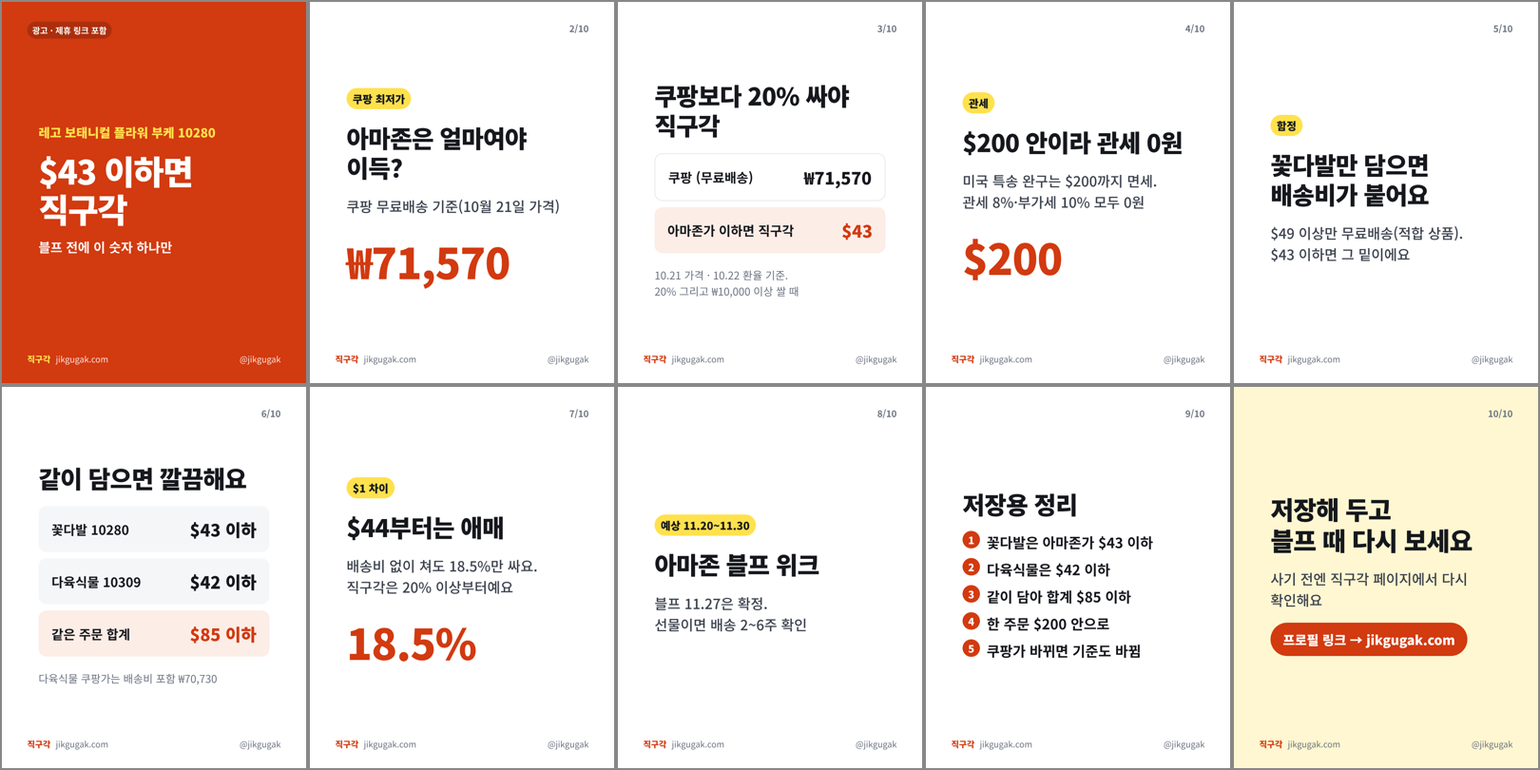
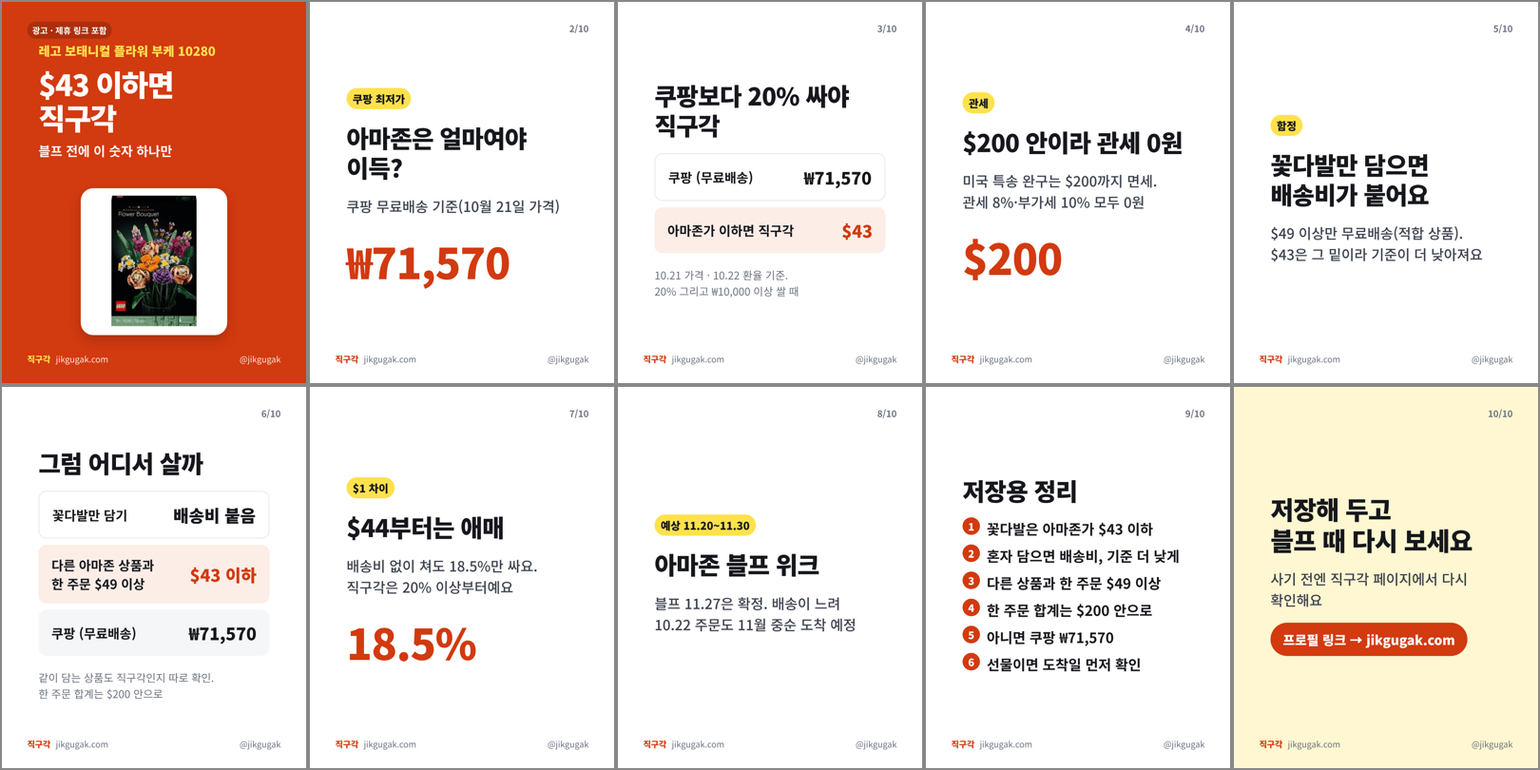
레고 꽃다발 홍보 세트 수정 완료(10309 해법 제거·도착일 안내), 매니저 실물 확인 통과, 10280 도착 예정 주의점 추가
Claude-Session: https://claude.ai/code/session_019Cv1aFf1DMQ9eAvVdGwkdU

diff --git a/content/2026-10-22-lego-bouquet/brief.md b/content/2026-10-22-lego-bouquet/brief.md
@@ -1,13 +1,14 @@
 # 기획안: 레고 꽃다발 직구 vs 쿠팡 (블프 전 "얼마 이하면 사도 되나")
 
 - 작성: marketing-lead · 2026-10-22
-- 대상 상품: 레고 보태니컬 플라워 부케 10280(주인공) · 레고 보태니컬 다육식물 10309(같이 담기)
+- 대상 상품: 레고 보태니컬 플라워 부케 10280 하나. (다육식물 10309는 10.22 오후 매니저 확인 결과 아마존 한국 배송 불가라 "같이 담기" 해법에서 뺐어요.)
+- 수정 이력: 2026-10-22 오후, 10309 한국 배송 불가·10280 도착 예정 11월 중순 반영(아래 4-3, 5, 7 갱신)
 - 채널: 네이버 블로그 1편, 인스타 카드뉴스 1세트(10장) + 캡션, 스레드 2개. 릴스는 이번에 만들지 않아요.
 - trend-scout 조사(research.md)는 이번엔 없어요. 훅·구조는 playbook.md 공식으로 갑니다.
 
 ## 1. 핵심 메시지 (결론 = 판정)
 
-> **레고 꽃다발 10280은 아마존가 $43 이하면 직구각이에요. 그런데 $49 무료배송 조건 때문에 혼자 담으면 이 기준이 안 맞고, 다육식물 10309($42 이하)와 같이 담아 합계 $85 이하일 때 깔끔하게 직구각이에요.**
+> **레고 꽃다발 10280은 아마존가 $43 이하면 직구각이에요(배송비 0원일 때). 꽃다발만 담으면 $49 무료배송에 못 미쳐 배송비가 붙고 실제 기준은 $43보다 낮아져요. 블프에 어차피 살 다른 아마존 상품과 한 주문으로 $49를 넘기는 게 아니면 쿠팡 ₩71,570(무료배송)이 현실적이에요.**
 
 - 현재 판정은 "현재가 확인"(아마존 가격을 표시하지 않음)이에요. **"지금 직구각"이라고 쓰면 안 돼요.** 글의 결론은 "세일 때 이 숫자 이하면 사세요"예요.
 - 글의 반전 포인트: 손익분기 $43이 무료배송 기준 $49보다 낮아요. 꽃다발만 담으면 배송비가 붙어서 실제 기준은 $43보다 더 내려가요.
@@ -21,7 +22,7 @@
 
 - 오늘(10/22) 기준 아마존 블프 위크까지 D-29(11.20~11.30, **예상**), 블랙프라이데이까지 D-36(11.27, **확정**). 세일 전에 기준 가격을 알아 두라는 "미리 저장" 콘텐츠예요.
 - 그 사이 국내 세일도 있어요(모두 **예상**): 네이버 넾다세일 10.29~11.11, 11번가 그랜드 십일절·빅스마일데이 11.1~11.11, 코리아세일페스타 11.9~11.30. 쿠팡가가 내려가면 직구 기준도 같이 내려가요. 이걸 "국내도 다시 보세요"로 정직하게 써요.
-- 선물이라면 배송 기간이 변수예요. 꽃다발 10280은 배송 2~6주라, 블프에 주문하면 크리스마스 전 도착을 장담 못 해요.
+- 선물이라면 배송 기간이 변수예요. 꽃다발 10280은 배송 2~6주이고, 10.22 오후 확인 때 아마존 도착 예정이 이미 11월 중순이었어요. 블프에 주문하면 크리스마스 전 도착을 장담 못 해요.
 
 ## 4. 팩트 시트 (이 표 밖의 숫자는 쓰지 않아요)
 
@@ -34,11 +35,13 @@
 | 국내 최저가 | ₩71,570 (쿠팡, 무료배송) | ₩70,730 (쿠팡 ₩60,730 + 배송비 ₩10,000) |
 | 손익분기(직구각 기준) | 아마존가 **$43 이하** | 아마존가 **$42 이하** |
 | 아마존 배송비 조건 | US$49 이상 무료 배송(적합 상품) | US$49 이상 무료 배송(적합 상품), US$49 미만이면 배송비 별도 |
-| 배송 기간 | 2~6주 | 1~4주 |
+| 배송 기간 | 2~6주 (10.22 오후 확인: 한국 배송 가능, 도착 예정 11월 중순) | 1~4주 |
+| 한국 배송 | 가능 (10.22 오후 매니저 확인) | **불가 (10.22 오후 매니저 확인, 구매 버튼 없음)** |
 | 면세 한도 | $200 (미국 특송, 완구) | $200 |
 | 현재 사이트 판정 | 현재가 확인 | 현재가 확인 |
 
-- 다육식물 국내가는 **반드시 "배송비 포함 ₩70,730"** 으로. ₩60,730만 단독으로 쓰면 안 돼요.
+- 다육식물 10309는 **이번 세트에서 숫자로 쓰지 않아요**(한국 배송 불가). 블로그에 "10.22 확인 때 한국 배송이 안 됐어요" 한 줄만 허용.
+- 배송 관련 출처: 한국 배송 가능 여부·도착 예정은 매니저가 2026-10-22 오후 아마존 상품 페이지(일반 주소)에서 확인한 값이에요. products.json의 10309 risks·summary에도 반영됨. 10280 도착 예정(11월 중순)은 products.json에 없고 매니저 확인값이라, 글에선 꼭 "10월 22일 확인 때"를 붙여요.
 
 ### 4-2. 계산 근거 (출처: `src/calc.js`, CLAUDE.md 판정 규칙)
 
@@ -60,12 +63,11 @@
 | 꽃다발 $43일 때 해외 체감가 | ₩56,996 (쿠팡보다 ₩14,574, 20.4% 쌈 → 직구각) | landedCost 43 |
 | 꽃다발 $44일 때 | ₩58,322 (18.5% 쌈 → 애매). **$1 차이로 판정이 바뀌어요** | landedCost 44 |
 | 꽃다발 가격대별 판정(무료배송 가정) | $43 이하 직구각 · $44~$53 애매 · $54 이상 국내가 나음 | judge 반복 |
-| 다육식물 가격대별 판정(무료배송 가정) | $42 이하 직구각 · $43~$53 애매 · $54 이상 국내가 나음 | judge 반복 |
-| 둘 같이 담을 때 국내 합계 | ₩142,300 (₩71,570 + ₩70,730) | 합 |
-| 둘 같이 담을 때 손익분기 | 아마존 **합계 $85 이하**면 직구각 (체감가 ₩112,667, ₩29,633·20.8% 쌈) | breakevenUsd 142,300 |
-| 둘 합계 $85 | $49 무료배송 넘음, $200 면세 한도 안 | |
+| ~~다육식물 가격대별·둘 같이 담기 합계 $85·₩142,300·₩112,667~~ | **사용 금지(10309 한국 배송 불가)** | |
+| 다른 아마존 상품과 한 주문 | 무료배송($49 이상)이면 꽃다발 기준은 그대로 $43 이하. 한 주문 합계 $200 이하면 관세·부가세 0원 | calc.js: 꽃다발 배송비 $0 가정 그대로, 면세 한도 $200 |
 
 - **"꽃다발 하나만" 시나리오(가장 중요한 함정):** $43 이하는 $49 미만이라 배송비가 따로 붙어요. 배송비 금액은 우리 데이터에 없어서 **숫자로 쓰지 않아요.** "배송비만큼 기준이 $43보다 더 내려가요"까지만. 반대로 $49 이상이면 무료배송이지만 그 가격대는 애매($49~$53)나 국내가 나음($54 이상)이에요.
+- **해법은 두 가지만:** ① 블프에 어차피 살 다른 아마존 상품과 한 주문으로 $49 넘기기(같이 담는 상품도 따로 국내보다 싼지 확인, 합계 $200 이하) ② 쿠팡 ₩71,570 무료배송. 특정 상품을 "같이 담을 짝"으로 추천하지 않아요(한국 배송 가능 여부를 우리가 확인하지 않은 상품이라).
 - 가격대별 표의 달러 숫자($44, $53, $54 등)는 "이 가격이면 이런 판정"이라는 기준선이지 아마존 가격이 아니에요. 그래도 "아마존이 $○○이에요/였어요"처럼 읽히는 문장은 금지예요.
 
 ### 4-4. 세일 일정 (출처: `data/events.json`)
@@ -88,19 +90,19 @@
 - **제목 후보 (검색어 앞으로, 25~35자):**
   1. 레고 꽃다발 직구 vs 쿠팡, 블프에 아마존 $43 이하면 사세요
   2. 레고 플라워 부케 10280 직구, 관세까지 계산한 기준 가격은 $43
-  3. 레고 꽃다발 블랙프라이데이 직구, 다육식물이랑 같이 담아야 하는 이유
+  3. 레고 꽃다발 블랙프라이데이 직구, 하나만 담으면 생기는 함정
 - **검색어:** "레고 꽃다발 직구"(주), "레고 10280", "레고 블랙프라이데이". 제목·첫 문단·소제목 1곳에만 자연스럽게.
 - **맨 위 광고 문구 2개 다:** 제휴 문구 + 쿠팡 파트너스 문구(쿠팡 가격을 언급하고, 링크한 직구각 페이지에 쿠팡 링크가 있어서 보수적으로 둘 다 넣어요).
-- **첫 문단 3줄:** 결론부터. "아마존가 $43 이하면 직구각(10월 21일 가격·10월 22일 환율 기준), 단 다육식물 10309와 같이 담아야 이 기준이 맞아요."
+- **첫 문단 3줄:** 결론부터. "아마존가 $43 이하면 직구각(10월 21일 가격·10월 22일 환율 기준). 배송비 0원일 때 얘기라 꽃다발만 담으면 기준이 더 낮아져요. 같이 살 아마존 상품이 없으면 쿠팡이 현실적."
 - **구성(소제목 5개 안팎):**
   1. 결론 요약 표: 상품 · 쿠팡가(배송비 포함 표기) · 직구각 기준 가격 · 배송 기간
   2. 왜 $43인가: 20% 그리고 ₩10,000 규칙, $200 면세 한도 안이라 관세·부가세 0원, 두 가지 환율
-  3. 함정: $49 무료배송. 꽃다발만 담으면 배송비가 붙어 기준이 더 내려가요. 같이 담으면 합계 $85 이하가 기준(표 1개: 혼자 vs 같이)
+  3. 함정: $49 무료배송. 꽃다발만 담으면 배송비가 붙어 기준이 더 내려가요. 표 1개: 꽃다발만 / 다른 아마존 상품과 한 주문 / 쿠팡. 10309 한국 배송 불가 한 줄
   4. 언제 보나: 아마존 블프 위크(예상)·블프(확정). 국내 세일(예상) 때 쿠팡가가 내려가면 기준도 바뀌니 사기 전 직구각 페이지에서 다시 확인
-  5. 주의할 점 3개: 결제는 달러로(환전 수수료) / 배송 2~6주라 크리스마스 선물이면 여유 없음 / 다른 레고를 더 담아 $200을 넘기면 배송비 포함 전체에 관세 8%·부가세 10%
+  5. 주의할 점 3개: 결제는 달러로(환전 수수료) / 배송 2~6주, 10.22 확인 때 도착 예정 11월 중순이라 선물이면 도착일 먼저 확인 / 배송비 피하려고 더 담다 $200을 넘기면 배송비 포함 전체에 관세 8%·부가세 10%
   6. 링크 하나: 꽃다발 10280 페이지
 - 이미지 자리: `[이미지: 직구각 카드 03(쿠팡가 vs 기준 가격)]` 같은 우리 카드만. 상품 사진이 필요하면 `[이미지: 쿠팡 파트너스 제공 상품 이미지, 운영자가 첨부]`로 표시만.
-- 1,500~2,500자. 네이버 태그 10개 이내(예: 레고꽃다발, 레고10280, 레고플라워부케, 레고직구, 해외직구, 블랙프라이데이, 아마존직구, 관부가세, 직구각, 레고다육식물).
+- 1,500~2,500자. 네이버 태그 10개 이내(예: 레고꽃다발, 레고10280, 레고플라워부케, 레고직구, 해외직구, 블랙프라이데이, 아마존직구, 관부가세, 직구각, 레고선물).
 - CTA: 꽃다발 페이지 링크 하나.
 
 ### 5-2. 인스타 카드뉴스 10장 (social-writer 문구 → card-designer 렌더)
@@ -111,11 +113,11 @@
 | 2 | point | 문제 제기(두 번째 표지) | "쿠팡 ₩71,570, 아마존은 얼마여야 이득일까요?" 쿠팡 무료배송 기준 + 10월 21일 기준 |
 | 3 | compare | 핵심 비교 | rows: 쿠팡 ₩71,570(dim) / 아마존가 이하면 직구각 $43(hi). note: 10.21 가격·10.22 환율, 20% 그리고 ₩10,000 이상 쌀 때 |
 | 4 | point | 왜 $43 | "$200 안이라 관세 0원" + "20% 싸야 직구각". big "$200" 또는 "20%" 중 하나 |
-| 5 | point | 함정 | label "함정" / title "꽃다발만 담으면\n배송비가 붙어요" / body "$49 이상만 무료배송. $43 이하면 그 밑이에요" |
-| 6 | compare | 해결: 같이 담기 | rows: 꽃다발 $43 이하 / 다육식물 $42 이하 / 둘 합계 $85 이하(hi). note: 다육식물 쿠팡 ₩70,730(배송비 포함) |
+| 5 | point | 함정 | label "함정" / title "꽃다발만 담으면\n배송비가 붙어요" / body "$49 이상만 무료배송(적합 상품). $43은 그 밑이라 기준이 더 낮아져요" |
+| 6 | compare | 사는 방법 | title "그럼 어디서 살까" / rows: 꽃다발만 담기 → 배송비 붙음(dim) / 다른 아마존 상품과 한 주문 $49 이상 → $43 이하(hi) / 쿠팡(무료배송) ₩71,570. note: 같이 담는 상품도 직구각인지 따로 확인, 한 주문 합계 $200 안으로 |
 | 7 | point | $1 차이 | big "$44" / title "1달러 넘으면 애매" / body "$44면 18.5%만 싸서 기준에 못 미쳐요" (가격대 기준선이지 아마존가 아님을 문맥으로 분명히) |
-| 8 | point | 언제·주의 | "아마존 블프 위크 11.20~11.30(예상)" + "블프 11.27" + "선물이면 배송 2~6주 확인" (넘치면 국내 세일 문구는 캡션으로) |
-| 9 | recap | 정리(캡처용) | ① 꽃다발 $43 이하 ② 다육식물 $42 이하 ③ 같이 담아 합계 $85 이하 ④ $200 넘기지 않기 ⑤ 쿠팡가 바뀌면 기준도 바뀜 |
+| 8 | point | 언제·주의 | "아마존 블프 위크 11.20~11.30(예상)" + "블프 11.27 확정" + "배송이 느려 10.22 주문도 11월 중순 도착 예정" |
+| 9 | recap | 정리(캡처용) | ① 꽃다발 $43 이하 ② 혼자 담으면 배송비, 기준 더 낮게 ③ 다른 상품과 한 주문 $49 이상 ④ 한 주문 $200 안으로 ⑤ 아니면 쿠팡 ₩71,570 ⑥ 선물이면 도착일 먼저 확인 |
 | 10 | cta | 저장 | "저장해 두고 블프 때 다시 보세요" / button "프로필 링크 → jikgugak.com" |
 
 - 카드 문구가 글자 수 규격(제목 7~15자, 설명 40자)을 넘으면 장을 쪼개지 말고 8장을 줄여요(10장이 상한).
@@ -133,8 +135,8 @@
 
 ### 5-4. 스레드 2개 (social-writer, 각 300~500자, 끝에 링크 하나 + #광고)
 
-1. **숫자 정보글(훅 B):** "$49." 로 시작. 아마존 무료배송 기준 $49가 직구각 기준 $43보다 높아서, 꽃다발만 사면 배송비가 붙는다 → 다육식물이랑 같이 담아 합계 $85 이하. 기준 날짜 한 줄. 끝: "직접 계산은 jikgugak.com" + 꽃다발 페이지 주소.
-2. **질문형:** "레고 꽃다발 선물, 블프까지 기다려요? 지금 쿠팡에서 사요?" 쿠팡 ₩71,570(무료배송) vs 블프에 $43 이하를 기다리기 + 배송 2~6주라 크리스마스 선물이면 국내가 마음 편할 수 있다는 정직한 포인트. 질문 하나로 끝(이 글은 CTA를 질문으로), 링크는 끝에 하나.
+1. **숫자 정보글(훅 B):** "$49." 로 시작. 아마존 무료배송 기준 $49가 직구각 기준 $43보다 높아서, 꽃다발만 사면 배송비가 붙는다 → 어차피 살 다른 아마존 상품과 한 주문으로 $49를 넘기거나, 아니면 쿠팡. 기준 날짜 한 줄. 끝: "직접 계산은 jikgugak.com" + 꽃다발 페이지 주소.
+2. **질문형:** "레고 꽃다발 선물, 블프까지 기다려요? 지금 쿠팡에서 사요?" 쿠팡 ₩71,570(무료배송) vs 블프에 $43 이하를 기다리기 + 배송이 느려(10.22 확인 때 도착 예정 11월 중순) 크리스마스 선물이면 국내가 마음 편할 수 있다는 정직한 포인트. 질문 하나로 끝(이 글은 CTA를 질문으로), 링크는 끝에 하나.
 
 ### 5-5. CTA (한 글에 하나)
 
@@ -145,7 +147,7 @@
 ## 6. 링크 (jikgugak.com 주소만, 제휴 링크 직접 노출 금지)
 
 - 메인: https://www.jikgugak.com/p/amazon-lego-10280-flower-bouquet
-- 보조(블로그 본문 언급용, 링크는 메인 하나만 권장): https://www.jikgugak.com/p/amazon-lego-10309-succulents
+- (10309 페이지는 한국 배송 불가라 이번 세트에서 링크하지 않아요)
 - 세일 일정: https://www.jikgugak.com/calendar
 - 관세 계산기: https://www.jikgugak.com/calculator
 - 합산과세·면세 한도 설명: https://www.jikgugak.com/guide
@@ -156,9 +158,9 @@
 2. **사이트 요약 문장을 그대로 옮기지 않기.** 10309 페이지의 "평소 할인가가 이 근처라"는 아마존 가격을 아는 것처럼 읽혀요. 10280 페이지의 "블프 할인 대상에 자주 올라요", "가장 많이 팔리는 세트"는 근거 자료가 없어요. 셋 다 쓰지 않아요.
 3. **"지금 직구각"이라고 쓰지 않기.** 현재 판정은 "현재가 확인"이에요. "블프에 레고가 할인해요"도 단정 금지("할인하면 이 숫자부터 보세요").
 4. **배송비 금액을 지어내지 않기.** $49 미만 배송비는 데이터에 없어요. "무료배송"은 항상 "US$49 이상, 적합 상품" 조건과 같이.
-5. **다육식물 국내가는 배송비 포함 ₩70,730.** ₩60,730만 쓰면 비교가 틀려요.
+5. **다육식물 10309를 해법으로 쓰지 않기.** 10.22 오후 기준 아마존 한국 배송 불가. "같이 담기", "합계 $85", "₩142,300" 모두 금지. 다른 특정 상품을 짝으로 추천하지도 않아요.
 6. **$43은 "이하".** "$43 정도", "$45쯤"처럼 반올림 금지. $44면 애매로 바뀌어요.
-7. **같이 담기 = 같은 주문.** 합계 $85 이하, $200 이하. 다른 레고를 더 담아 $200을 넘기면 배송비 포함 전체에 관세 8%·부가세 10%. 구체적 세금 예시 금액은 쓰지 않아요(헷갈림 방지).
+7. **같이 담기 = 같은 주문, $49 이상 $200 이하.** 배송비 피하려고 더 담다 $200을 넘기면 배송비 포함 전체에 관세 8%·부가세 10%. 구체적 세금 예시 금액은 쓰지 않아요(헷갈림 방지). 쿠팡 배송 속도는 데이터에 없으니 "쿠팡은 빨라요"라고 쓰지 않고 "마음 편해요" 정도로.
 8. **국내가 나은 경우도 쓰기:** 가격이 $54 이상이면 국내가 나음, 급한 선물이면 쿠팡. "직구가 무조건 싸다"로 읽히면 안 돼요.
 9. **세일 날짜:** 아마존 블프 위크·국내 세일은 "예상". 블프 11.27·사이버먼데이 11.30은 확정.
 10. **상표:** "레고 보태니컬 플라워 부케 10280"처럼 상품명으로만. 레고 로고·박스 사진·공식 이미지 금지, "레고 공식" 같은 관계 암시 금지. 체험담("만들어 보니")·후기·별점 금지.

diff --git a/content/2026-10-22-lego-bouquet/review.md b/content/2026-10-22-lego-bouquet/review.md
@@ -1,6 +1,8 @@
 # 검수: 레고 꽃다발 직구 vs 쿠팡 (marketing-lead · 2026-10-22)
 
-## 최종 판정: 게시 가능 (아래 "게시할 때 할 일"을 운영자가 지키는 조건)
+## 최종 판정 (2026-10-22 오후 재검수): 게시 가능
+
+조건: 아래 "10309 배송 불가 반영 수정"의 게시 전 확인 3가지를 매니저·운영자가 지킬 것. 오전 판정(게시 가능)은 10309 "같이 담기" 해법이 틀린 정보가 되어 무효, 수정 후 다시 판정했어요.
 
 검수 대상: blog.md(blog-writer) · cards.json·instagram.md·threads.md(social-writer) · cards/01~10.png(card-designer)
 숫자 대조 원본: `npm run build` 출력(2026-10-22, 환율 settings 값 사용), `dist/p/amazon-lego-10280-flower-bouquet.html`, `dist/p/amazon-lego-10309-succulents.html`, `data/products.json`, `data/events.json`, `src/calc.js`로 직접 다시 계산.
@@ -52,7 +54,7 @@
 | 항목 | 결과 | 확인 내용 |
 | --- | --- | --- |
 | 블로그 길이 | 수정함 | 본문 공백 포함 3,116자 → **2,166자**(공백 제외 1,661자). 소제목 7개 → 5개, 다육식물 단독 가격대 문단·중복 설명 삭제, "$1 차이" 소제목을 "왜 기준이 $43일까"에 합침, "직접 계산해 보기" 소제목 없애고 마지막 문단으로 |
-| 블로그 형식 | 수정함 | 첫 문단 결론+숫자+날짜, 표 2개, 링크 1개. 검색어 "레고 꽃다발 직구"는 제목·첫 문단·소제목에, "레고 블랙프라이데이"는 소제목에. 본문 안 H1 제목은 네이버 제목 칸과 중복돼서 삭제. 제목 1안 "…$43 이하면 사세요" → "…$43 이하면 직구각"(구매 권유 대신 판정 말투, 혼자 담으면 기준이 안 맞는 점과도 충돌 안 함) |
+| 블로그 형식 | 수정함 | 첫 문단 결론+숫자+날짜, 표 2개, 링크 1개. 검색어 "레고 꽃다발 직구"는 제목·첫 문단·소제목에, "레고 블랙프라이데이"는 소제목에. 본문 안 H1 제목은 네이버 제목 칸과 중복돼서 삭제. 제목 1안 "...$43 이하면 사세요" → "...$43 이하면 직구각"(구매 권유 대신 판정 말투, 혼자 담으면 기준이 안 맞는 점과도 충돌 안 함) |
 | 블로그 내용 정확성 | 수정함 | "둘을 한 주문에 담으면 합계가 $49를 넘으니" → "넘기 쉬워"(가격에 따라 보장 아님) |
 | 카드 | 수정함 | 10장, 표지 훅 "$43 이하면 직구각"(9자), 한 장 한 포인트, 요약 09, CTA 10(저장 하나), 2~10장 번호·전 장 핸들, 렌더 경고 없음. 카드 04 라벨 "왜 $43"이 내용($200 면세)과 안 맞고 설명이 제목을 그대로 반복 → 라벨 "관세", 설명 "미국 특송 완구는 $200까지 면세. / 관세 8%·부가세 10% 모두 0원". 카드 07 위와 같이 수정. 다시 렌더 후 10장 모두 열어 확인(잘림·겹침·오타 없음, 나머지 8장은 바이트 크기 동일) |
 | 캡션 | 통과 | 첫 줄 "레고 꽃다발, 아마존가 $43 이하면 직구각이에요 #광고"(숫자 훅), 요청 "저장" 하나, 링크 없음, 해시태그 #광고 포함 5개 |
@@ -71,12 +73,67 @@
 - WebSearch로 확인: 네이버플러스 스토어 행사 표기는 **"넾다세일"이 맞아요**(한국경제·헤럴드경제·이투데이·바이라인네트워크 기사, 디자인컴패스의 네이버 브랜딩 소개 글). 글과 data/events.json 모두 수정 불필요.
 - 참고: 기사상 넾다세일은 상반기(6월)에도 열려요. 하반기 10.29~11.11은 events.json대로 "예상"으로 썼어요.
 
+## 10309 배송 불가 반영 수정 (2026-10-22 오후)
+
+**계기:** 매니저가 10.22 오후 아마존 상품 페이지에서 확인. 다육식물 10309는 한국 배송 불가(구매 버튼 없음), 꽃다발 10280은 한국 배송 가능(도착 예정 11월 중순). 오전 세트는 "10309와 같이 담아 합계 $85 이하"를 해법으로 내세워서, 그대로 게시하면 틀린 정보였어요.
+
+**바뀐 핵심 메시지:** 꽃다발 10280은 아마존가 $43 이하면 직구각(배송비 0원일 때). 꽃다발만 담으면 $49 무료배송에 못 미쳐 배송비가 붙고 실제 기준은 $43보다 낮아져요. 블프에 다른 아마존 상품도 살 계획이면 한 주문으로 $49를 넘기고(합계 $200 이하), 아니면 쿠팡 ₩71,570(무료배송)이 현실적. 배송이 느려(10.22 확인 때 도착 예정 11월 중순) 선물이면 도착일부터 확인.
+
+### 숫자 재대조 (원본 기준)
+
+| 항목 | 원본 | 결과 |
+| --- | --- | --- |
+| 10280 손익분기 $43 | `npm run build` 출력 "손익분기 $43", dist/p/amazon-lego-10280-flower-bouquet.html "$43 이하" | 일치 |
+| $43 → ₩56,996(20.4%, 직구각) / $44 → ₩58,322(18.5%, 애매) / $53 애매 / $54 국내가 나음 | src/calc.js landedCost·judge 재실행(과세 1,340.28·결제 1,325.50) | 일치 |
+| 쿠팡 ₩71,570, 무료배송, 10.21 저녁 | products.json domesticKrw·domesticSource·checkedAt, dist 페이지 | 일치 |
+| US$49 이상 무료 배송(적합 상품), US$49 미만 배송비 별도 | products.json shipNote·risks | 일치 |
+| 배송 2~6주 | products.json risks "배송 2~6주로 느린 편" | 일치 |
+| 10309 한국 배송 불가(10.22) | products.json 10309 risks·summary, dist 10309 페이지 | 일치 |
+| 10280 도착 예정 11월 중순 | 매니저 10.22 오후 확인값(products.json엔 없음) | 글엔 항상 "10월 22일 확인 때 ... 예정"으로만 씀 |
+| 새로 만든 숫자 | 없음. "다른 상품과 한 주문"은 꽃다발 배송비 $0 가정이 그대로라 $43이 유지된다는 것뿐(calc.js 계산식 그대로) | 새 금액 없음 |
+
+### 고친 것 (전 → 후)
+
+| 파일 | 전 | 후 |
+| --- | --- | --- |
+| cards.json · 카드 05 | 설명 "$43 이하면 그 밑이에요" | "$43은 그 밑이라 기준이 더 낮아져요" |
+| 카드 06 | "같이 담으면 깔끔해요": 꽃다발 $43 / 다육식물 $42 / 같은 주문 합계 $85(강조), 주석 다육식물 ₩70,730 | "그럼 어디서 살까": 꽃다발만 담기 → 배송비 붙음 / 다른 아마존 상품과 한 주문 $49 이상 → $43 이하(강조) / 쿠팡(무료배송) ₩71,570, 주석 "같이 담는 상품도 직구각인지 따로 확인. 한 주문 합계는 $200 안으로" |
+| 카드 08 | "선물이면 배송 2~6주 확인" | "배송이 느려 10.22 주문도 11월 중순 도착 예정" |
+| 카드 09 | 다육식물 $42 이하 · 같이 담아 합계 $85 이하 포함 5줄 | 꽃다발 $43 이하 · 혼자 담으면 배송비, 기준 더 낮게 · 다른 상품과 한 주문 $49 이상 · 한 주문 합계 $200 안으로 · 아니면 쿠팡 ₩71,570 · 선물이면 도착일 먼저 확인 (6줄) |
+| blog.md | 첫 문단 "다육식물 10309와 같이 담아 합계 $85 이하", 기준표에 10309 행, "혼자 vs 같이" 표($85·₩142,300), 합계 체감가 ₩112,667 문단, 제목 3안 "다육식물이랑 같이 담아야 하는 이유", 태그 레고다육식물 | 첫 문단 "배송비 0원일 때 얘기, 같이 살 아마존 상품이 없으면 쿠팡이 현실적", 기준표를 꽃다발 하나로(배송 조건·도착 예정 포함), "꽃다발만 / 다른 아마존 상품과 한 주문 / 쿠팡" 3줄 표, "10309는 10월 22일 확인 때 한국 배송 안 됨" 한 줄, 제목 3안 "하나만 담으면 생기는 함정", 태그 레고선물, 주의 2번에 "10월 22일 확인 때 도착 예정 11월 중순, 주문 화면 도착 예정일 먼저 보기". 본문 2,371자(공백 제외 1,800자) |
+| instagram.md | 캡션 "다육식물 10309(₩70,730)와 같이 담아 합계 $85 이하면 직구각", 배송 2~6주 문장 | "다른 아마존 상품도 살 게 있으면 한 주문으로 $49를 넘기세요(합계 $200 안으로). 같이 살 게 없으면 쿠팡이 현실적", 배송 문단에 10.22 확인 도착 예정 11월 중순. 장별 미리보기 05·06·08·09 갱신. 게시 메모의 "상품 사진 넣지 않았어요"(표지 사진과 안 맞던 옛 문장) 바로잡음, 10309 제외 메모 추가 |
+| threads.md | 1: "다육식물 10309와 한 주문, 합계 $85 이하면 직구각" / 2: "다육식물 10309와 같이 담는 게 좋아요", "배송이 2~6주" | 1: "다른 아마존 상품도 살 계획이면 한 주문으로 묶어 $49를 넘기세요. 그럼 $43 기준 그대로. 같이 살 게 없으면 쿠팡이 현실적" / 2: "다른 아마존 상품과 한 주문으로 $49를 넘겨야 $43이 맞아요", "10월 22일 확인 때 도착 예정이 이미 11월 중순". 길이 414자·427자 |
+| brief.md | 핵심 메시지·팩트 시트·카드 구성·스레드 각도·링크·금지 사항이 10309 같이 담기 전제 | 10309 숫자 사용 금지 표시, 한국 배송 가능 여부·도착 예정 출처(매니저 10.22 오후 확인) 추가, 해법 두 가지(다른 상품과 한 주문 / 쿠팡)로, 10309 링크 삭제, 금지 5·7번 갱신 |
+| review.md | 말줄임표 문자(U+2026) 3개 | "..." |
+
+### 체크리스트 재확인 (바뀐 부분 기준)
+
+| 항목 | 결과 |
+| --- | --- |
+| 숫자 | 통과. 위 표대로 원본과 대조. $42·$85·₩70,730·₩142,300·₩112,667·₩29,633은 blog·instagram·threads·cards 어디에도 없음(grep 확인) |
+| 아마존 가격 숫자 | 통과. 달러는 $43(손익분기)·$44(판정 기준선)·$49(배송 조건)·$200(면세 한도)뿐 |
+| 광고 표시·링크 | 통과. 변경 없음. 링크는 10280 페이지만(10309 페이지 링크 없음) |
+| 정직함 | 통과. 쿠팡이 현실적인 경우를 첫 문단·카드 06·09·캡션·스레드 모두에 씀. 배송비 금액·쿠팡 배송 속도는 데이터에 없어 쓰지 않음. 특정 상품을 "같이 담을 짝"으로 추천하지 않음 |
+| 말투 | 통과. 줄표·말줄임표 문자·둥근 따옴표·보이지 않는 문자 0개(blog·instagram·threads·cards·brief·review 스크립트 검사). 금지어 0개 |
+| 카드 | 통과. 10장, 렌더 경고 없음, 01~10 PNG 전부 열어 확인(잘림·겹침·오타 없음). 표지 01 상품 사진(img/10280.jpg) 유지 |
+| 캡션·스레드 형식 | 통과. 캡션 해시태그 #광고 포함 5개·링크 없음·요청 하나. 스레드 2개 각 500자 이내, #광고 |
+
+### 게시 전 확인 (이번 수정으로 추가)
+
+1. **매니저:** 게시 당일 아마존 10280 상품 페이지(`tag=jikgugak-20`이 붙지 않은 일반 주소)에서 **한국 배송 가능 여부**를 다시 확인. 막혔으면 이 세트 전체 게시 보류(해법이 무너짐).
+2. **매니저:** 쿠팡 일반 주소(domesticCheckUrl)에서 ₩71,570·무료배송이 그대로인지 확인. 바뀌면 $43이 달라져 카드 재렌더 필요.
+3. **운영자:** "도착 예정 11월 중순"은 10월 22일 확인값이에요. 게시가 며칠 늦어지면 카드 08·블로그·캡션·스레드의 이 문장이 낡을 수 있으니, 10월 말을 넘기면 매니저에게 알려 주세요.
+
+### 매니저 참고 (콘텐츠 밖)
+
+- products.json 10280 risks "배송 2~6주로 느린 편"에 "10.22 확인 때 도착 예정 11월 중순"을 넣을지 검토(지금은 글에만 있고 사이트엔 없음).
+
 ## 게시할 때 할 일 (운영자)
 
 1. **인스타:** "유료 광고 포함" 표시 켜기. 이미지 순서 01 → 10 그대로. 대체 텍스트(alt)에 "레고 꽃다발 10280, 아마존가 $43 이하면 직구각이라는 표지" 넣기. 캡션은 instagram.md "캡션" 부분만 복사(점수표·게시 메모는 빼기). 첫 댓글은 따로 달지 않아도 돼요.
-2. **블로그:** 제목 칸에 1안("레고 꽃다발 직구 vs 쿠팡, 블프에 아마존 $43 이하면 직구각"), 본문은 `<!-- 아래부터 본문 -->` 아래만. 맨 위 광고 문구 2줄 지우지 않기. `[이미지: 직구각 카드 03…]` 자리에 cards/03.png, 상품 사진은 쿠팡 파트너스가 주는 이미지만. 태그 10개 그대로.
+2. **블로그:** 제목 칸에 1안("레고 꽃다발 직구 vs 쿠팡, 블프에 아마존 $43 이하면 직구각"), 본문은 `<!-- 아래부터 본문 -->` 아래만. 맨 위 광고 문구 2줄 지우지 않기. `[이미지: 직구각 카드 03...]` 자리에 cards/03.png, 상품 사진은 쿠팡 파트너스가 주는 이미지만. 태그 10개 그대로.
 3. **스레드:** 두 글을 따로 올리기(이어 쓰기 아님). 링크·#광고 지우지 않기.
-4. **게시 전 다시 볼 것:** 쿠팡가(₩71,570·₩70,730)나 환율이 바뀌면 $43·$42·$85가 달라질 수 있어요. 게시 당일 꽃다발 페이지에 "$43 이하"가 그대로인지 확인하고, 달라졌으면 게시 보류 후 매니저에게 알려 주세요.
+4. **게시 전 다시 볼 것:** 쿠팡가(₩71,570)나 환율이 바뀌면 $43이 달라질 수 있어요. 게시 당일 꽃다발 페이지에 "$43 이하"가 그대로인지 확인하고, 달라졌으면 게시 보류 후 매니저에게 알려 주세요. (10309 관련 숫자 $42·$85·₩70,730은 이제 글에 없어요.)
 5. 계정 핸들이 `@jikgugak`이 아니게 정해지면 카드 다시 렌더 필요.
 
 ## 개선 제안 (템플릿, 이번엔 수정 안 함)
@@ -88,3 +145,8 @@
 ## 매니저 반영 (2026-10-22)
 - 개선 제안 3개 모두 반영: 카드 글자 한 단계 확대(제목 86px·설명 50px·큰 숫자 150px 등)로 여백 줄임, 번호 규칙 "표지 제외"로 확정, card-spec.md에 "big에 달러 금액 금지" 추가. 10장 다시 렌더해 잘림·겹침 없음 확인.
 - 매니저 숫자 재확인: $43(₩57,256÷1,325.50), $43→₩56,996(20.4%), $44→₩58,322(18.5%), 합계 $85→₩112,667(₩29,633·20.8%) 모두 일치. 제휴 링크 노출·아마존 가격 숫자 없음.
+
+## 매니저 게시 전 실물 확인 (2026-10-22 오후)
+- 아마존 10280(일반 주소): 대한민국 배송 가능, 도착 예정 11월 13~28일 → 통과
+- 쿠팡 10280: ₩71,570 · 무료배송 그대로 → $43 기준 유지
+- 사이트 10280 상품 페이지 주의점에 도착 예정(11.13~28) 추가

diff --git a/content/2026-10-22-lego-bouquet/threads.md b/content/2026-10-22-lego-bouquet/threads.md
@@ -10,7 +10,7 @@ $49.
 
 그래서 꽃다발만 담으면 배송비가 붙고, 기준은 $43보다 더 내려가요.
 
-다육식물 10309(기준 $42 이하)와 한 주문에 같이 담아서 합계 $85 이하면 직구각이에요. 한 주문 $200 안이라 관세·부가세는 0원이에요.
+블프에 다른 아마존 상품도 살 계획이면, 한 주문으로 묶어 $49를 넘기세요. 그럼 $43 기준이 그대로예요. 한 주문을 $200 안으로 맞추면 관세·부가세도 0원이에요. 같이 살 게 없으면 쿠팡이 현실적이에요.
 
 꽃다발 쿠팡 ₩71,570(무료배송) 기준, 10월 21일 가격·10월 22일 환율이에요. 블프 때는 바뀔 수 있어요.
 
@@ -23,9 +23,9 @@ https://www.jikgugak.com/p/amazon-lego-10280-flower-bouquet
 
 레고 꽃다발 선물, 블프까지 기다려요? 지금 쿠팡에서 사요?
 
-쿠팡은 ₩71,570, 무료배송이에요(10월 21일 가격). 블프(11.27 확정) 때 아마존가가 $43 이하면 직구각이고(10월 22일 환율), 그 위면 애매하거나 쿠팡이 나아요. 꽃다발만 담으면 배송비가 붙으니 다육식물 10309와 같이 담는 게 좋아요.
+쿠팡은 ₩71,570, 무료배송이에요(10월 21일 가격). 블프(11.27 확정) 때 아마존가가 $43 이하면 직구각이고(10월 22일 환율), 그 위면 애매하거나 쿠팡이 나아요. 다만 꽃다발만 담으면 배송비가 붙어서 기준이 더 내려가요. 다른 아마존 상품과 한 주문으로 $49를 넘겨야 $43이 맞아요.
 
-그런데 꽃다발 직구는 배송이 2~6주예요. 크리스마스 선물이면 블프 주문은 도착을 장담 못 해요. 급하면 쿠팡이 마음 편할 수 있어요.
+배송도 느려요. 10월 22일에 확인했을 때 도착 예정이 이미 11월 중순이었어요. 크리스마스 선물이면 블프 주문은 도착을 장담 못 해요. 급하면 쿠팡이 마음 편할 수 있어요.
 
 국내 세일(예상)로 쿠팡가가 내려가면 기준도 같이 내려가요.
 
